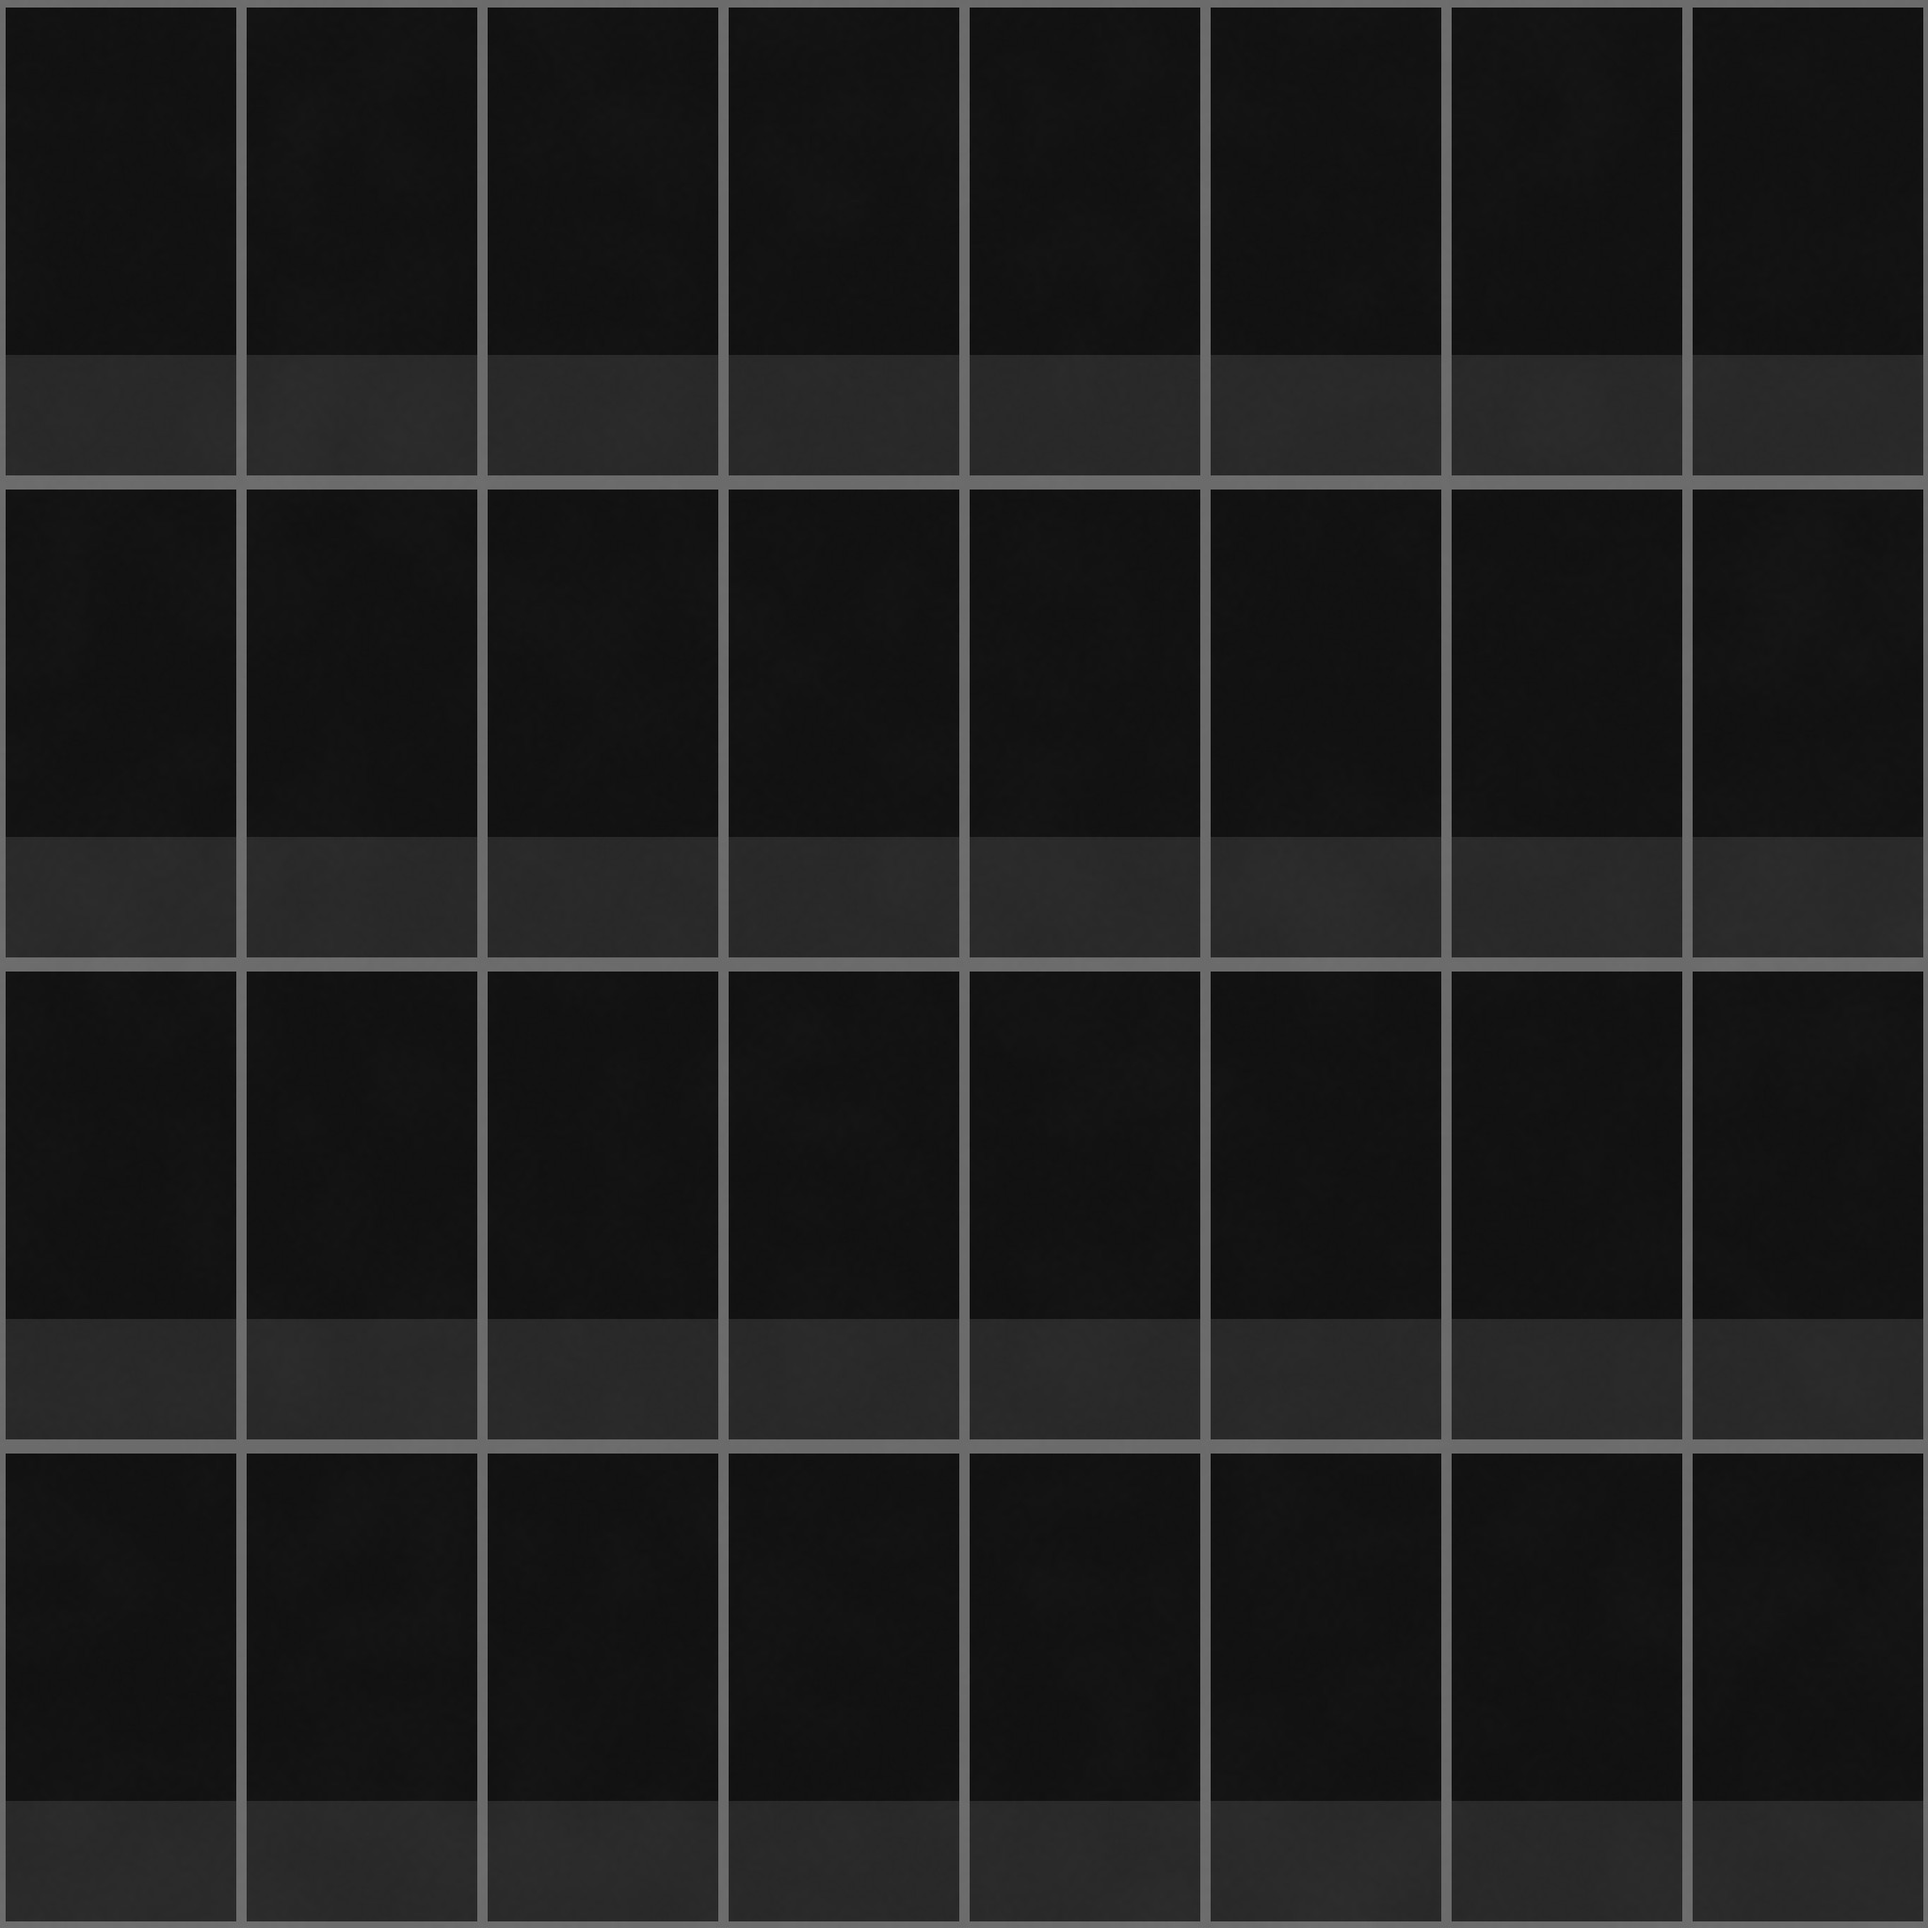
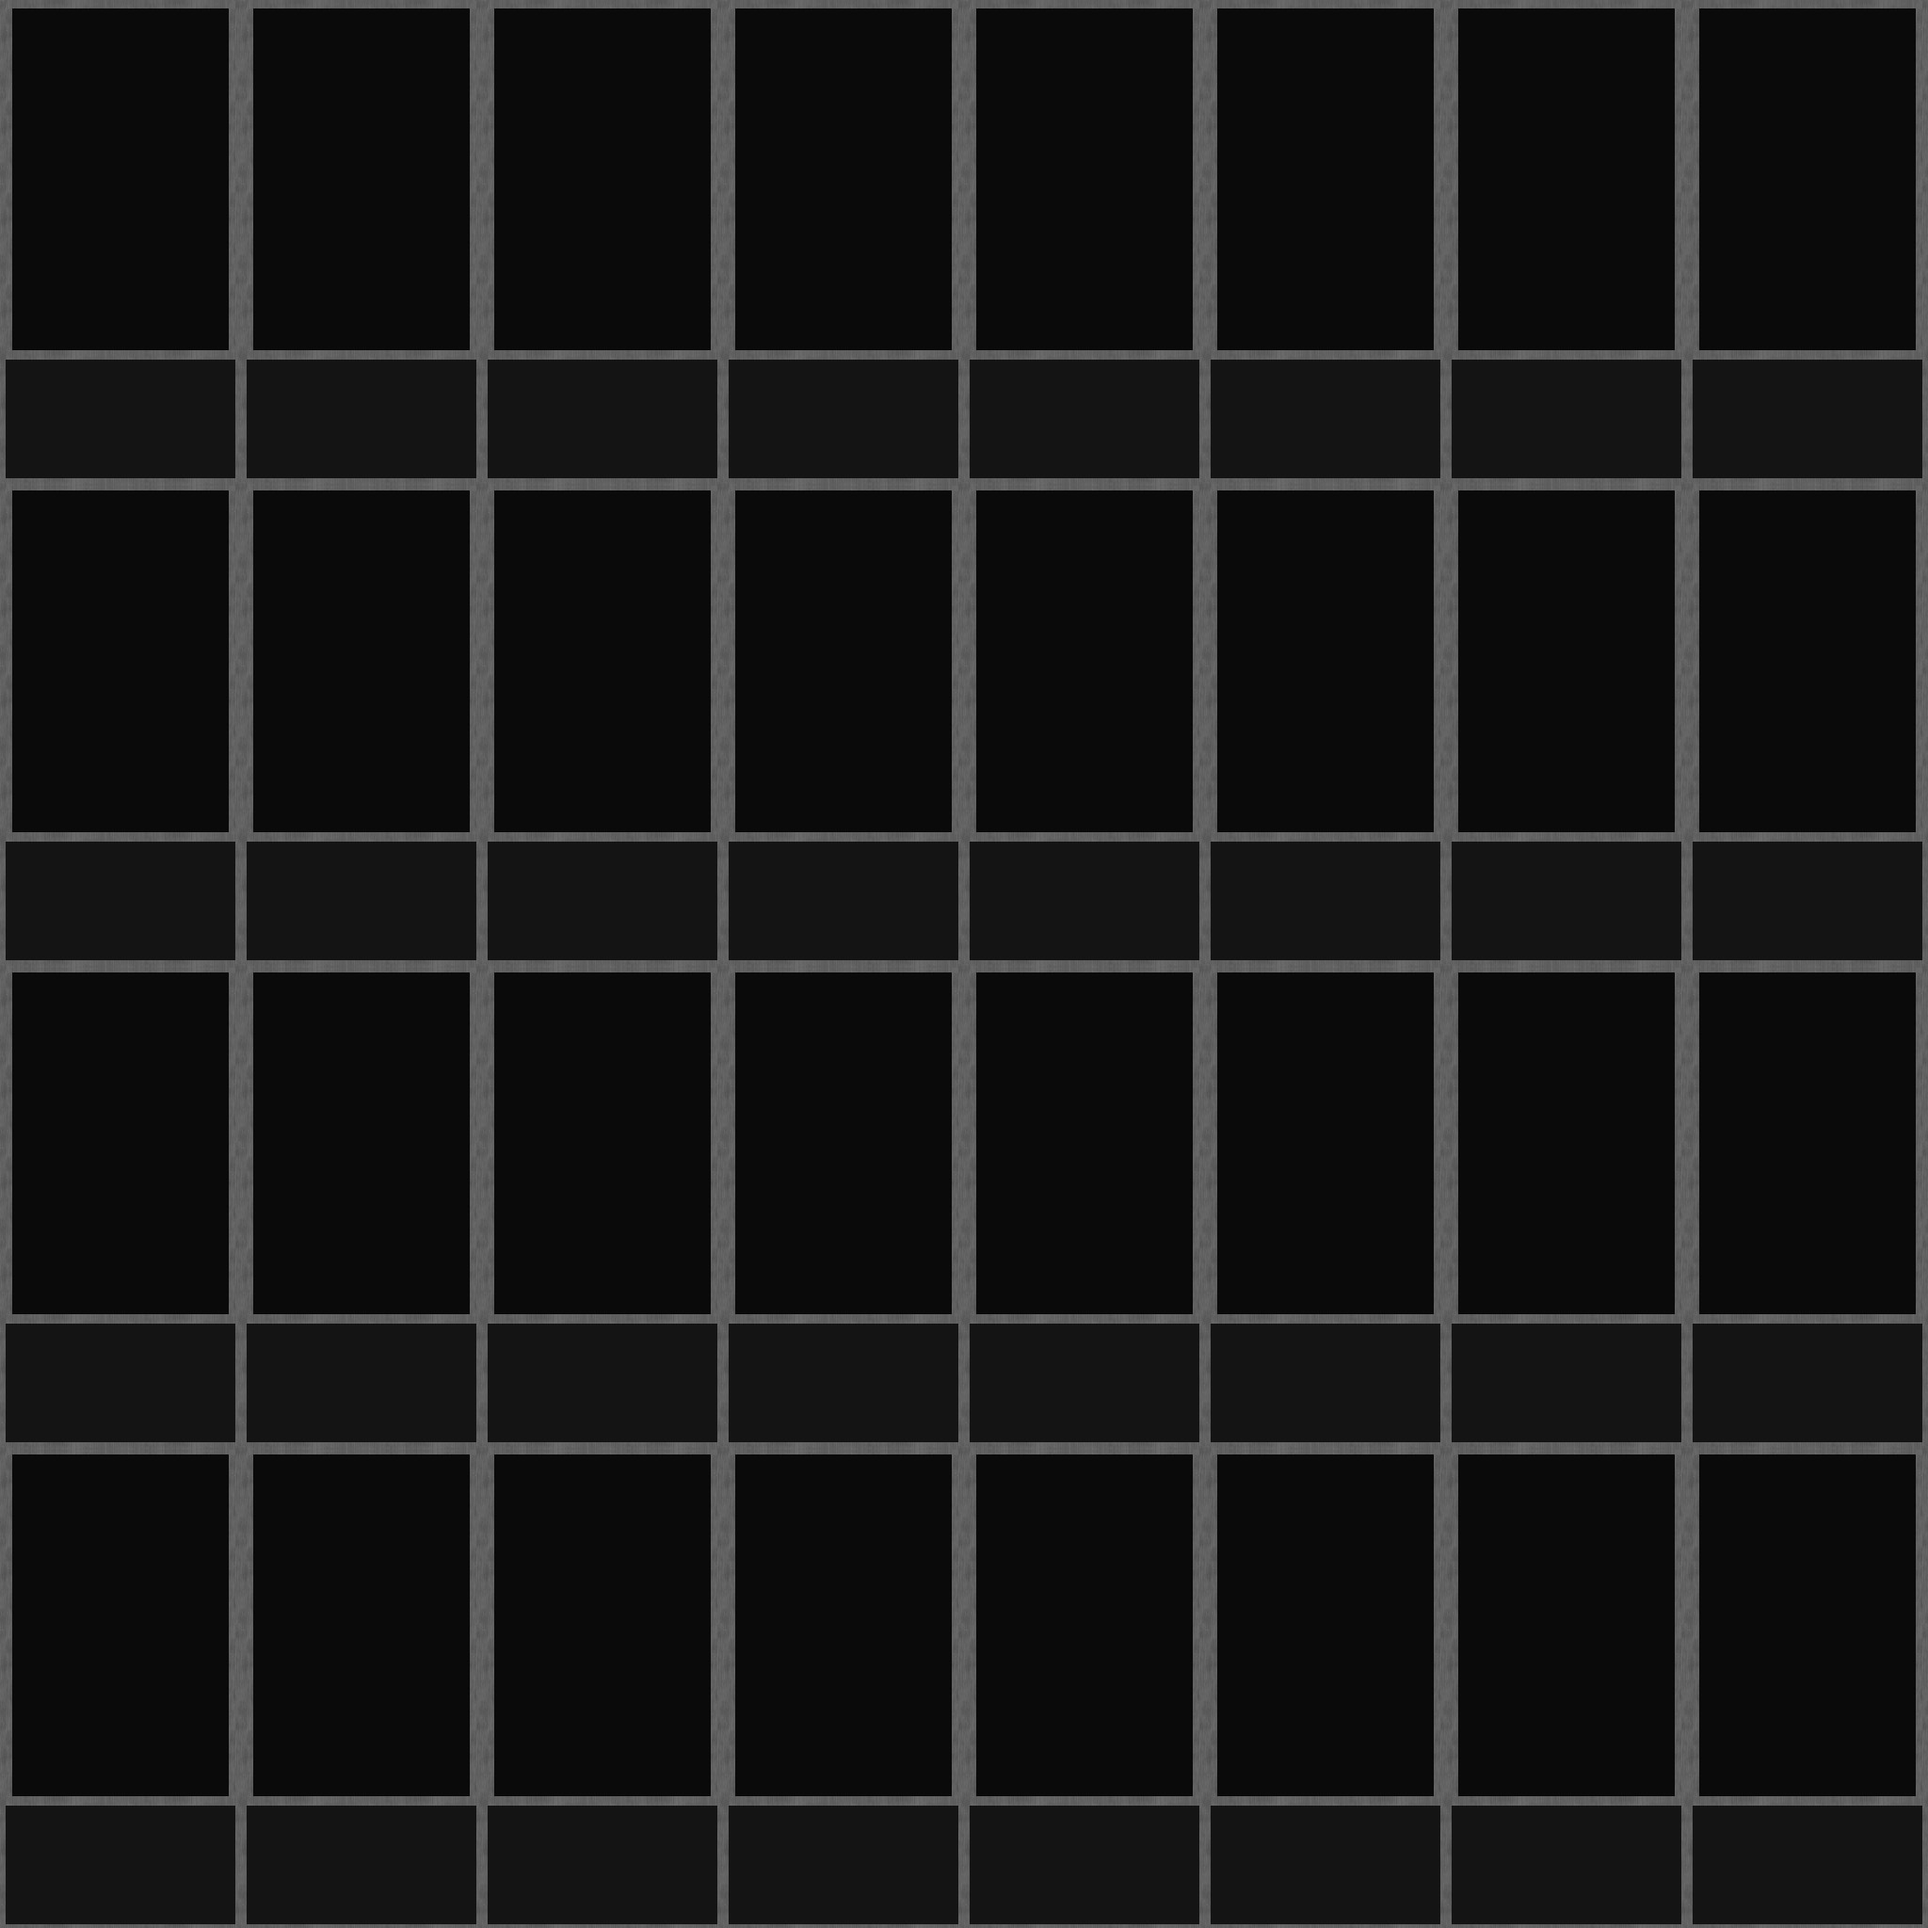
Foundry facades: glass curtain wall rebaked, flats window mask leaves out balcony fronts and laundry, civic top course
Claude-Session: https://claude.ai/code/session_014HfPc7P92bPsgM5hoRnpsa

diff --git a/Tools/foundry/gen/facades.py b/Tools/foundry/gen/facades.py
@@ -26,6 +26,7 @@ M = mats.get
 OUT = os.path.join(export.REPO, "Web", "art", "facades")
 TARGETS = ["facade_office", "facade_glass", "facade_flats", "facade_civic",
            "facadewin_office", "facadewin_glass", "facadewin_flats", "facadewin_civic"]
+OCCL = []          # what stands in front of the glass (balcony fronts, laundry): kept out of the mask
 WINS = []          # every window opening (x0, z0, w, h) in metres, for the interior-mapping mask
 # metres covered by one texture (whole bays x whole floors) - FACADE_PHOTOS sizes in konto.html
 SIZES = {"office": (12.8, 16.0), "glass": (12.8, 16.8), "flats": (12.4, 12.4), "civic": (14.0, 13.8)}
@@ -166,6 +167,7 @@ def build_flats(rng, W, H, parts, glass):
             parts.append(box("wall", (unit, 0.1, floor), (x + unit / 2, 0.05, z + floor / 2), wall))
             # balcony front: frosted panels in a frame and a top rail
             parts.append(box("balcfront", (unit - 0.3, 0.06, 0.95), (x + unit / 2, -1.45, z + 0.22 + 0.5), frosted))
+            OCCL.append((x + 0.15, z + 0.2, unit - 0.3, 1.1))
             parts.append(box("rail", (unit - 0.2, 0.08, 0.06), (x + unit / 2, -1.48, z + 1.22), frame))
             for k in range(5):
                 parts.append(box("post", (0.05, 0.05, 1.0), (x + 0.2 + k * (unit - 0.4) / 4, -1.47, z + 0.72), frame))
@@ -178,8 +180,10 @@ def build_flats(rng, W, H, parts, glass):
                 parts.append(cyl("pole", 0.015, unit - 1.0, (x + unit / 2, -1.0, z + 2.3), M("aluminium"), 8, "X"))
                 for k in range(int(rng.random() * 5) + 1):
                     c = rng.choice([(0.9, 0.9, 0.88), (0.2, 0.3, 0.5), (0.7, 0.3, 0.3), (0.8, 0.75, 0.6), (0.3, 0.5, 0.35)])
-                    parts.append(box("laundry", (0.45 + rng.random() * 0.3, 0.02, 0.5 + rng.random() * 0.3), (x + 1.0 + k * 0.85, -1.0, z + 1.95),
+                    lw, lh = 0.45 + rng.random() * 0.3, 0.5 + rng.random() * 0.3
+                    parts.append(box("laundry", (lw, 0.02, lh), (x + 1.0 + k * 0.85, -1.0, z + 1.95),
                                      flat_mat("cloth_%d" % int(c[0] * 10 + c[2]), c, 0.95)))
+                    OCCL.append((x + 1.0 + k * 0.85 - lw / 2, z + 1.95 - lh / 2, lw, lh))
             if rng.random() < 0.3:
                 parts.append(box("futon", (1.6, 0.06, 0.5), (x + 2.2, -1.5, z + 1.25), flat_mat("futon", (0.85, 0.8, 0.75), 0.95), rot=(0.2, 0, 0)))
 
@@ -191,7 +195,7 @@ def build_civic(rng, W, H, parts, glass):
     frame = M("paint_black")
     for f in range(int(H / floor)):
         z = f * floor
-        for k in range(int(floor / 0.92)):
+        for k in range(int(round(floor / 0.92))):
             parts.append(box("course", (W, 0.12, 0.88), (W / 2, -0.06, z + 0.46 + k * 0.92), stone, 0.015))
         nb = int(W / 3.5)
         for b in range(nb):
@@ -258,6 +262,8 @@ def write_winmask(style, W, H, px=1024):
         a[m, 1] = (Z[m] - z0) / h
         a[m, 2] = w / 6.4
         a[m, 3] = h / 6.4
+    for x0, z0, w, h in OCCL:
+        a[(X >= x0) & (X < x0 + w) & (Z >= z0) & (Z < z0 + h)] = 0
     Image.fromarray((np.clip(a, 0, 1) * 255 + 0.5).astype(np.uint8), "RGBA").save(os.path.join(OUT, style + "_win.png"), optimize=True)
     print("  -> Web/art/facades/%s_win.png (%d openings)" % (style, len(WINS)))
 
@@ -267,7 +273,7 @@ def build(which):
     W, H = SIZES[style]
     rng = random.Random(sum(map(ord, style)))
     parts, glass = [], []
-    WINS.clear()
+    WINS.clear(); OCCL.clear()
     BUILDERS[style](rng, W, H, parts, glass)
     os.makedirs(OUT, exist_ok=True)
     write_winmask(style, W, H)
